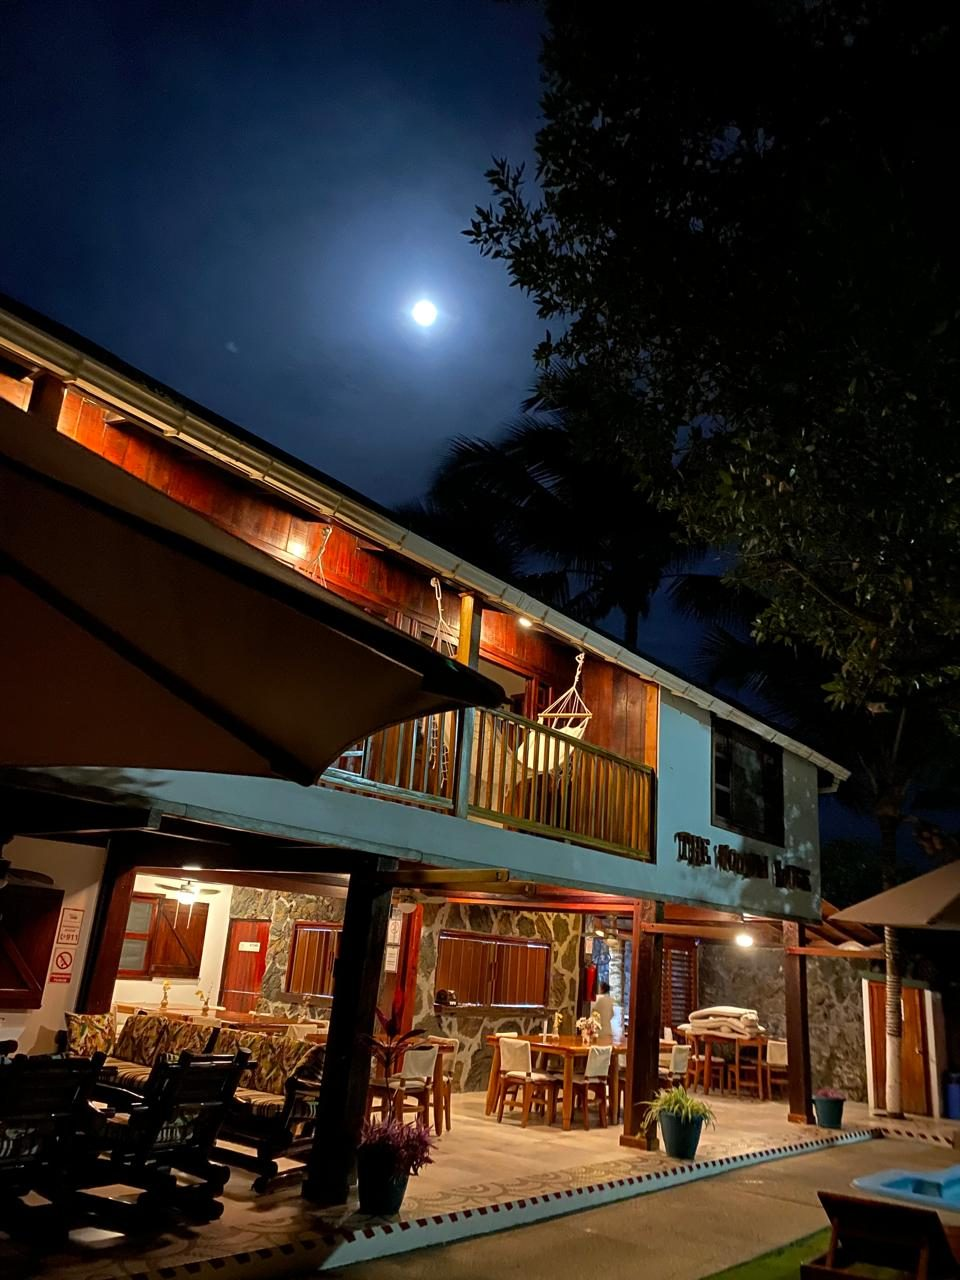
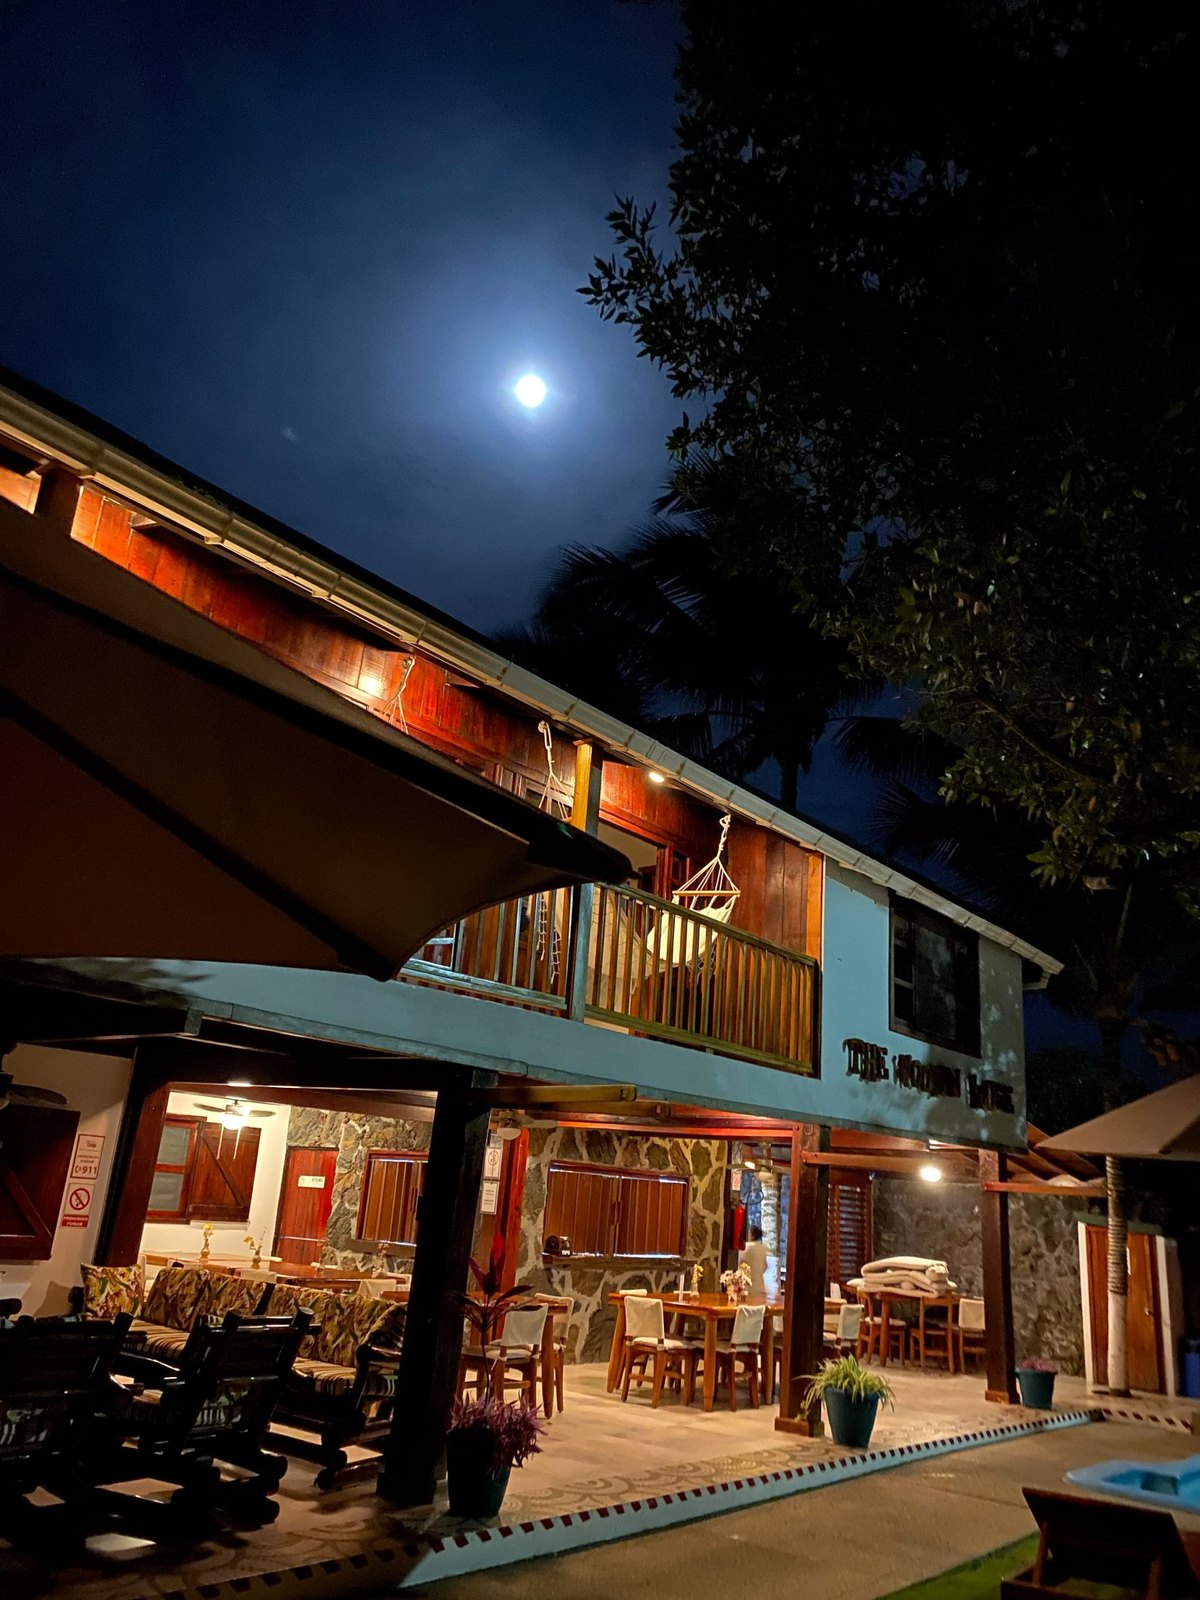
Fotos del hotel: atardecer en Puerto Villamil, noche en HD; orden de tiempo libre; créditos al pie
Claude-Session: https://claude.ai/code/session_01YJM8Xqa2Jo1nKvdc2J4vuR

diff --git a/en/index.html b/en/index.html
@@ -577,13 +577,12 @@ html,body{overflow-x:clip}
 </section>
 
 <section id="noche"><div class="night">
- <img loading="lazy" src="/media/hotel/noche.webp" data-a="a_noche" alt="" width="960" height="1280">
+ <img loading="lazy" src="/media/hotel/noche.webp" data-a="a_noche" alt="" width="1200" height="1600">
  <div><div class="eyebrow" data-i="neye"></div><h2 data-i="nt"></h2><p data-i="np"></p></div>
 </div></section>
 
 <!-- TOURS -->
 
-<p class="pk-small" style="margin:.4rem 0 0" data-pk="cred"></p>
 </div>
 
 
@@ -616,10 +615,10 @@ html,body{overflow-x:clip}
  <h2 data-pk="f_t"></h2>
  <p data-pk="f_p"></p>
  <div class="pk-free">
+  <div class="pk-fi"><img src="/media/isla/atardecer-villamil.webp" data-pka="a_atard" alt="" width="700" height="534" loading="lazy"><b data-pk="f4t"></b><span data-pk="f4p"></span></div>
   <div class="pk-fi"><b data-pk="f1t"></b><span data-pk="f1p"></span></div>
   <div class="pk-fi"><b data-pk="f2t"></b><span data-pk="f2p"></span></div>
   <div class="pk-fi"><img src="/media/isla/muro-lagrimas.jpg" data-pka="a_muro" alt="" width="1280" height="851" loading="lazy"><b data-pk="f3t"></b><span data-pk="f3p"></span></div>
-  <div class="pk-fi"><b data-pk="f4t"></b><span data-pk="f4p"></span></div>
  </div>
 </section>
 
@@ -760,7 +759,7 @@ html,body{overflow-x:clip}
  <details><summary data-i="q4"></summary><p data-i="a4"></p></details>
 </section>
 </main>
-<footer><p data-i="foot"></p><p><a href="/legal.html#privacy" data-i="fpriv"></a> · <a href="/legal.html#terms" data-i="fterms"></a> · <a href="mailto:bookings@wildhaventour.com">bookings@wildhaventour.com</a></p></footer>
+<footer><p data-i="foot"></p><p class="pk-small" data-pk="cred"></p><p><a href="/legal.html#privacy" data-i="fpriv"></a> · <a href="/legal.html#terms" data-i="fterms"></a> · <a href="mailto:bookings@wildhaventour.com">bookings@wildhaventour.com</a></p></footer>
 </div>
 
 <div id="lb" role="dialog" aria-modal="true"><button type="button" id="lb-x" aria-label="Close">×</button><img id="lb-img" alt=""><div id="lb-cap"></div></div>
@@ -876,7 +875,7 @@ var TOURS=[
 ];
 var T={
 es:{
-v_eye:'Isla Isabela',v_t:'Esto es lo que vas a vivir',v_p:'Mar abierto, lobos marinos, rayas y fragatas. Así se ve Isabela desde el agua.',a_fach:'Fachada de The Wooden House Lodge con su piscina y jardín',cap1:'Sierra Negra y Volcán Chico',cap2:'Rayas bajo el agua en Los Túneles',cap3:'En bicicleta por Isabela',refph:'Foto de referencia del lugar',a_crat:'Laderas rojizas y negras del volcán Sierra Negra',a_ping:'Pingüino de Galápagos sobre roca volcánica en Isabela',a_lobo:'Lobo marino joven sobre la arena en Las Tintoreras',a_chico:'Excursionistas en el borde de un cráter del Volcán Chico',a_muro:'Piedras volcánicas del Muro de las Lágrimas',a_pisc2:'Piscina de The Wooden House Lodge',a_tun:'Pozas de agua turquesa entre lava negra en Los Túneles',a_raya:'Dos rayas nadando en agua verde azulada',a_lobo2:'Lobo marino nadando bajo el agua',a_fam:'Familia con bicicletas en una playa de arena',a_bahia:'Dos viajeras en aguas claras y poco profundas de una laguna en Isabela',a_huesp:'Huéspedes sonriendo junto a la piscina de The Wooden House',a_pareja:'Pareja conversando en el jardín del hotel bajo las sombrillas',a_vch:'Cono del Volcán Chico entre campos de lava y vegetación',a_hvid:'Video del hotel: habitaciones de madera, alquiler de neopreno y sendero',cred:'Fotos y videos: The Wooden House Lodge (@woodenhouse.ec) y Alexander Schimmeck (Unsplash).',
+v_eye:'Isla Isabela',v_t:'Esto es lo que vas a vivir',v_p:'Mar abierto, lobos marinos, rayas y fragatas. Así se ve Isabela desde el agua.',a_fach:'Fachada de The Wooden House Lodge con su piscina y jardín',cap1:'Sierra Negra y Volcán Chico',cap2:'Rayas bajo el agua en Los Túneles',cap3:'En bicicleta por Isabela',refph:'Foto de referencia del lugar',a_crat:'Laderas rojizas y negras del volcán Sierra Negra',a_ping:'Pingüino de Galápagos sobre roca volcánica en Isabela',a_lobo:'Lobo marino joven sobre la arena en Las Tintoreras',a_chico:'Excursionistas en el borde de un cráter del Volcán Chico',a_muro:'Piedras volcánicas del Muro de las Lágrimas',a_atard:'Atardecer dorado sobre la playa de Puerto Villamil, con palmeras y el muelle',a_pisc2:'Piscina de The Wooden House Lodge',a_tun:'Pozas de agua turquesa entre lava negra en Los Túneles',a_raya:'Dos rayas nadando en agua verde azulada',a_lobo2:'Lobo marino nadando bajo el agua',a_fam:'Familia con bicicletas en una playa de arena',a_bahia:'Dos viajeras en aguas claras y poco profundas de una laguna en Isabela',a_huesp:'Huéspedes sonriendo junto a la piscina de The Wooden House',a_pareja:'Pareja conversando en el jardín del hotel bajo las sombrillas',a_vch:'Cono del Volcán Chico entre campos de lava y vegetación',a_hvid:'Video del hotel: habitaciones de madera, alquiler de neopreno y sendero',cred:'Fotos y videos: The Wooden House Lodge (@woodenhouse.ec) y Alexander Schimmeck (Unsplash).',
 h_eye:'Packs Isabela · Galápagos',
 h1:'Isabela, sin prisa. Todo resuelto.',
 h_sub:'Hotel con desayuno y tours con guía, en un solo pago. Tú solo eliges cuántas noches de mar quieres.',
@@ -952,7 +951,7 @@ msg_tours:'Hola, me interesan estos tours para {px}:\n{list}\nTotal: {tot}\n¿Qu
 nodate:'por definir'
 },
 en:{
-v_eye:'Isabela Island',v_t:'This is what you’ll experience',v_p:'Open sea, sea lions, rays and frigatebirds. This is Isabela from the water.',a_fach:'The Wooden House Lodge facade with its pool and garden',cap1:'Sierra Negra and Volcán Chico',cap2:'Rays underwater at Los Túneles',cap3:'Biking around Isabela',refph:'Reference photo of the site',a_crat:'Red and black slopes of Sierra Negra volcano',a_ping:'Galápagos penguin on volcanic rock on Isabela',a_lobo:'Young sea lion on the sand at Las Tintoreras',a_chico:'Hikers on the rim of a Volcán Chico crater',a_muro:'Volcanic stones of the Wall of Tears',a_pisc2:'The Wooden House Lodge pool',a_tun:'Turquoise pools among black lava at Los Túneles',a_raya:'Two rays swimming in blue-green water',a_lobo2:'Sea lion swimming underwater',a_fam:'Family with bikes on a sandy beach',a_bahia:'Two travelers in clear, shallow lagoon water on Isabela',a_huesp:'Guests smiling by The Wooden House pool',a_pareja:'Couple chatting in the lodge garden under the umbrellas',a_vch:'Volcán Chico cone among lava fields and greenery',a_hvid:'Lodge video: wooden rooms, wetsuit rental and trail',cred:'Photos and videos: The Wooden House Lodge (@woodenhouse.ec) and Alexander Schimmeck (Unsplash).',
+v_eye:'Isabela Island',v_t:'This is what you’ll experience',v_p:'Open sea, sea lions, rays and frigatebirds. This is Isabela from the water.',a_fach:'The Wooden House Lodge facade with its pool and garden',cap1:'Sierra Negra and Volcán Chico',cap2:'Rays underwater at Los Túneles',cap3:'Biking around Isabela',refph:'Reference photo of the site',a_crat:'Red and black slopes of Sierra Negra volcano',a_ping:'Galápagos penguin on volcanic rock on Isabela',a_lobo:'Young sea lion on the sand at Las Tintoreras',a_chico:'Hikers on the rim of a Volcán Chico crater',a_muro:'Volcanic stones of the Wall of Tears',a_atard:'Golden sunset over the beach in Puerto Villamil, with palm trees and the pier',a_pisc2:'The Wooden House Lodge pool',a_tun:'Turquoise pools among black lava at Los Túneles',a_raya:'Two rays swimming in blue-green water',a_lobo2:'Sea lion swimming underwater',a_fam:'Family with bikes on a sandy beach',a_bahia:'Two travelers in clear, shallow lagoon water on Isabela',a_huesp:'Guests smiling by The Wooden House pool',a_pareja:'Couple chatting in the lodge garden under the umbrellas',a_vch:'Volcán Chico cone among lava fields and greenery',a_hvid:'Lodge video: wooden rooms, wetsuit rental and trail',cred:'Photos and videos: The Wooden House Lodge (@woodenhouse.ec) and Alexander Schimmeck (Unsplash).',
 h_eye:'Isabela Packs · Galápagos',
 h1:'Isabela, unhurried. All taken care of.',
 h_sub:'Your hotel with breakfast and guided tours, in a single payment. All you choose is how many nights by the sea.',

diff --git a/index.html b/index.html
@@ -577,13 +577,12 @@ html,body{overflow-x:clip}
 </section>
 
 <section id="noche"><div class="night">
- <img loading="lazy" src="/media/hotel/noche.webp" data-a="a_noche" alt="" width="960" height="1280">
+ <img loading="lazy" src="/media/hotel/noche.webp" data-a="a_noche" alt="" width="1200" height="1600">
  <div><div class="eyebrow" data-i="neye"></div><h2 data-i="nt"></h2><p data-i="np"></p></div>
 </div></section>
 
 <!-- TOURS -->
 
-<p class="pk-small" style="margin:.4rem 0 0" data-pk="cred"></p>
 </div>
 
 
@@ -616,10 +615,10 @@ html,body{overflow-x:clip}
  <h2 data-pk="f_t"></h2>
  <p data-pk="f_p"></p>
  <div class="pk-free">
+  <div class="pk-fi"><img src="/media/isla/atardecer-villamil.webp" data-pka="a_atard" alt="" width="700" height="534" loading="lazy"><b data-pk="f4t"></b><span data-pk="f4p"></span></div>
   <div class="pk-fi"><b data-pk="f1t"></b><span data-pk="f1p"></span></div>
   <div class="pk-fi"><b data-pk="f2t"></b><span data-pk="f2p"></span></div>
   <div class="pk-fi"><img src="/media/isla/muro-lagrimas.jpg" data-pka="a_muro" alt="" width="1280" height="851" loading="lazy"><b data-pk="f3t"></b><span data-pk="f3p"></span></div>
-  <div class="pk-fi"><b data-pk="f4t"></b><span data-pk="f4p"></span></div>
  </div>
 </section>
 
@@ -760,7 +759,7 @@ html,body{overflow-x:clip}
  <details><summary data-i="q4"></summary><p data-i="a4"></p></details>
 </section>
 </main>
-<footer><p data-i="foot"></p><p><a href="/legal.html#privacy" data-i="fpriv"></a> · <a href="/legal.html#terms" data-i="fterms"></a> · <a href="mailto:bookings@wildhaventour.com">bookings@wildhaventour.com</a></p></footer>
+<footer><p data-i="foot"></p><p class="pk-small" data-pk="cred"></p><p><a href="/legal.html#privacy" data-i="fpriv"></a> · <a href="/legal.html#terms" data-i="fterms"></a> · <a href="mailto:bookings@wildhaventour.com">bookings@wildhaventour.com</a></p></footer>
 </div>
 
 <div id="lb" role="dialog" aria-modal="true"><button type="button" id="lb-x" aria-label="Close">×</button><img id="lb-img" alt=""><div id="lb-cap"></div></div>
@@ -876,7 +875,7 @@ var TOURS=[
 ];
 var T={
 es:{
-v_eye:'Isla Isabela',v_t:'Esto es lo que vas a vivir',v_p:'Mar abierto, lobos marinos, rayas y fragatas. Así se ve Isabela desde el agua.',a_fach:'Fachada de The Wooden House Lodge con su piscina y jardín',cap1:'Sierra Negra y Volcán Chico',cap2:'Rayas bajo el agua en Los Túneles',cap3:'En bicicleta por Isabela',refph:'Foto de referencia del lugar',a_crat:'Laderas rojizas y negras del volcán Sierra Negra',a_ping:'Pingüino de Galápagos sobre roca volcánica en Isabela',a_lobo:'Lobo marino joven sobre la arena en Las Tintoreras',a_chico:'Excursionistas en el borde de un cráter del Volcán Chico',a_muro:'Piedras volcánicas del Muro de las Lágrimas',a_pisc2:'Piscina de The Wooden House Lodge',a_tun:'Pozas de agua turquesa entre lava negra en Los Túneles',a_raya:'Dos rayas nadando en agua verde azulada',a_lobo2:'Lobo marino nadando bajo el agua',a_fam:'Familia con bicicletas en una playa de arena',a_bahia:'Dos viajeras en aguas claras y poco profundas de una laguna en Isabela',a_huesp:'Huéspedes sonriendo junto a la piscina de The Wooden House',a_pareja:'Pareja conversando en el jardín del hotel bajo las sombrillas',a_vch:'Cono del Volcán Chico entre campos de lava y vegetación',a_hvid:'Video del hotel: habitaciones de madera, alquiler de neopreno y sendero',cred:'Fotos y videos: The Wooden House Lodge (@woodenhouse.ec) y Alexander Schimmeck (Unsplash).',
+v_eye:'Isla Isabela',v_t:'Esto es lo que vas a vivir',v_p:'Mar abierto, lobos marinos, rayas y fragatas. Así se ve Isabela desde el agua.',a_fach:'Fachada de The Wooden House Lodge con su piscina y jardín',cap1:'Sierra Negra y Volcán Chico',cap2:'Rayas bajo el agua en Los Túneles',cap3:'En bicicleta por Isabela',refph:'Foto de referencia del lugar',a_crat:'Laderas rojizas y negras del volcán Sierra Negra',a_ping:'Pingüino de Galápagos sobre roca volcánica en Isabela',a_lobo:'Lobo marino joven sobre la arena en Las Tintoreras',a_chico:'Excursionistas en el borde de un cráter del Volcán Chico',a_muro:'Piedras volcánicas del Muro de las Lágrimas',a_atard:'Atardecer dorado sobre la playa de Puerto Villamil, con palmeras y el muelle',a_pisc2:'Piscina de The Wooden House Lodge',a_tun:'Pozas de agua turquesa entre lava negra en Los Túneles',a_raya:'Dos rayas nadando en agua verde azulada',a_lobo2:'Lobo marino nadando bajo el agua',a_fam:'Familia con bicicletas en una playa de arena',a_bahia:'Dos viajeras en aguas claras y poco profundas de una laguna en Isabela',a_huesp:'Huéspedes sonriendo junto a la piscina de The Wooden House',a_pareja:'Pareja conversando en el jardín del hotel bajo las sombrillas',a_vch:'Cono del Volcán Chico entre campos de lava y vegetación',a_hvid:'Video del hotel: habitaciones de madera, alquiler de neopreno y sendero',cred:'Fotos y videos: The Wooden House Lodge (@woodenhouse.ec) y Alexander Schimmeck (Unsplash).',
 h_eye:'Packs Isabela · Galápagos',
 h1:'Isabela, sin prisa. Todo resuelto.',
 h_sub:'Hotel con desayuno y tours con guía, en un solo pago. Tú solo eliges cuántas noches de mar quieres.',
@@ -952,7 +951,7 @@ msg_tours:'Hola, me interesan estos tours para {px}:\n{list}\nTotal: {tot}\n¿Qu
 nodate:'por definir'
 },
 en:{
-v_eye:'Isabela Island',v_t:'This is what you’ll experience',v_p:'Open sea, sea lions, rays and frigatebirds. This is Isabela from the water.',a_fach:'The Wooden House Lodge facade with its pool and garden',cap1:'Sierra Negra and Volcán Chico',cap2:'Rays underwater at Los Túneles',cap3:'Biking around Isabela',refph:'Reference photo of the site',a_crat:'Red and black slopes of Sierra Negra volcano',a_ping:'Galápagos penguin on volcanic rock on Isabela',a_lobo:'Young sea lion on the sand at Las Tintoreras',a_chico:'Hikers on the rim of a Volcán Chico crater',a_muro:'Volcanic stones of the Wall of Tears',a_pisc2:'The Wooden House Lodge pool',a_tun:'Turquoise pools among black lava at Los Túneles',a_raya:'Two rays swimming in blue-green water',a_lobo2:'Sea lion swimming underwater',a_fam:'Family with bikes on a sandy beach',a_bahia:'Two travelers in clear, shallow lagoon water on Isabela',a_huesp:'Guests smiling by The Wooden House pool',a_pareja:'Couple chatting in the lodge garden under the umbrellas',a_vch:'Volcán Chico cone among lava fields and greenery',a_hvid:'Lodge video: wooden rooms, wetsuit rental and trail',cred:'Photos and videos: The Wooden House Lodge (@woodenhouse.ec) and Alexander Schimmeck (Unsplash).',
+v_eye:'Isabela Island',v_t:'This is what you’ll experience',v_p:'Open sea, sea lions, rays and frigatebirds. This is Isabela from the water.',a_fach:'The Wooden House Lodge facade with its pool and garden',cap1:'Sierra Negra and Volcán Chico',cap2:'Rays underwater at Los Túneles',cap3:'Biking around Isabela',refph:'Reference photo of the site',a_crat:'Red and black slopes of Sierra Negra volcano',a_ping:'Galápagos penguin on volcanic rock on Isabela',a_lobo:'Young sea lion on the sand at Las Tintoreras',a_chico:'Hikers on the rim of a Volcán Chico crater',a_muro:'Volcanic stones of the Wall of Tears',a_atard:'Golden sunset over the beach in Puerto Villamil, with palm trees and the pier',a_pisc2:'The Wooden House Lodge pool',a_tun:'Turquoise pools among black lava at Los Túneles',a_raya:'Two rays swimming in blue-green water',a_lobo2:'Sea lion swimming underwater',a_fam:'Family with bikes on a sandy beach',a_bahia:'Two travelers in clear, shallow lagoon water on Isabela',a_huesp:'Guests smiling by The Wooden House pool',a_pareja:'Couple chatting in the lodge garden under the umbrellas',a_vch:'Volcán Chico cone among lava fields and greenery',a_hvid:'Lodge video: wooden rooms, wetsuit rental and trail',cred:'Photos and videos: The Wooden House Lodge (@woodenhouse.ec) and Alexander Schimmeck (Unsplash).',
 h_eye:'Isabela Packs · Galápagos',
 h1:'Isabela, unhurried. All taken care of.',
 h_sub:'Your hotel with breakfast and guided tours, in a single payment. All you choose is how many nights by the sea.',
